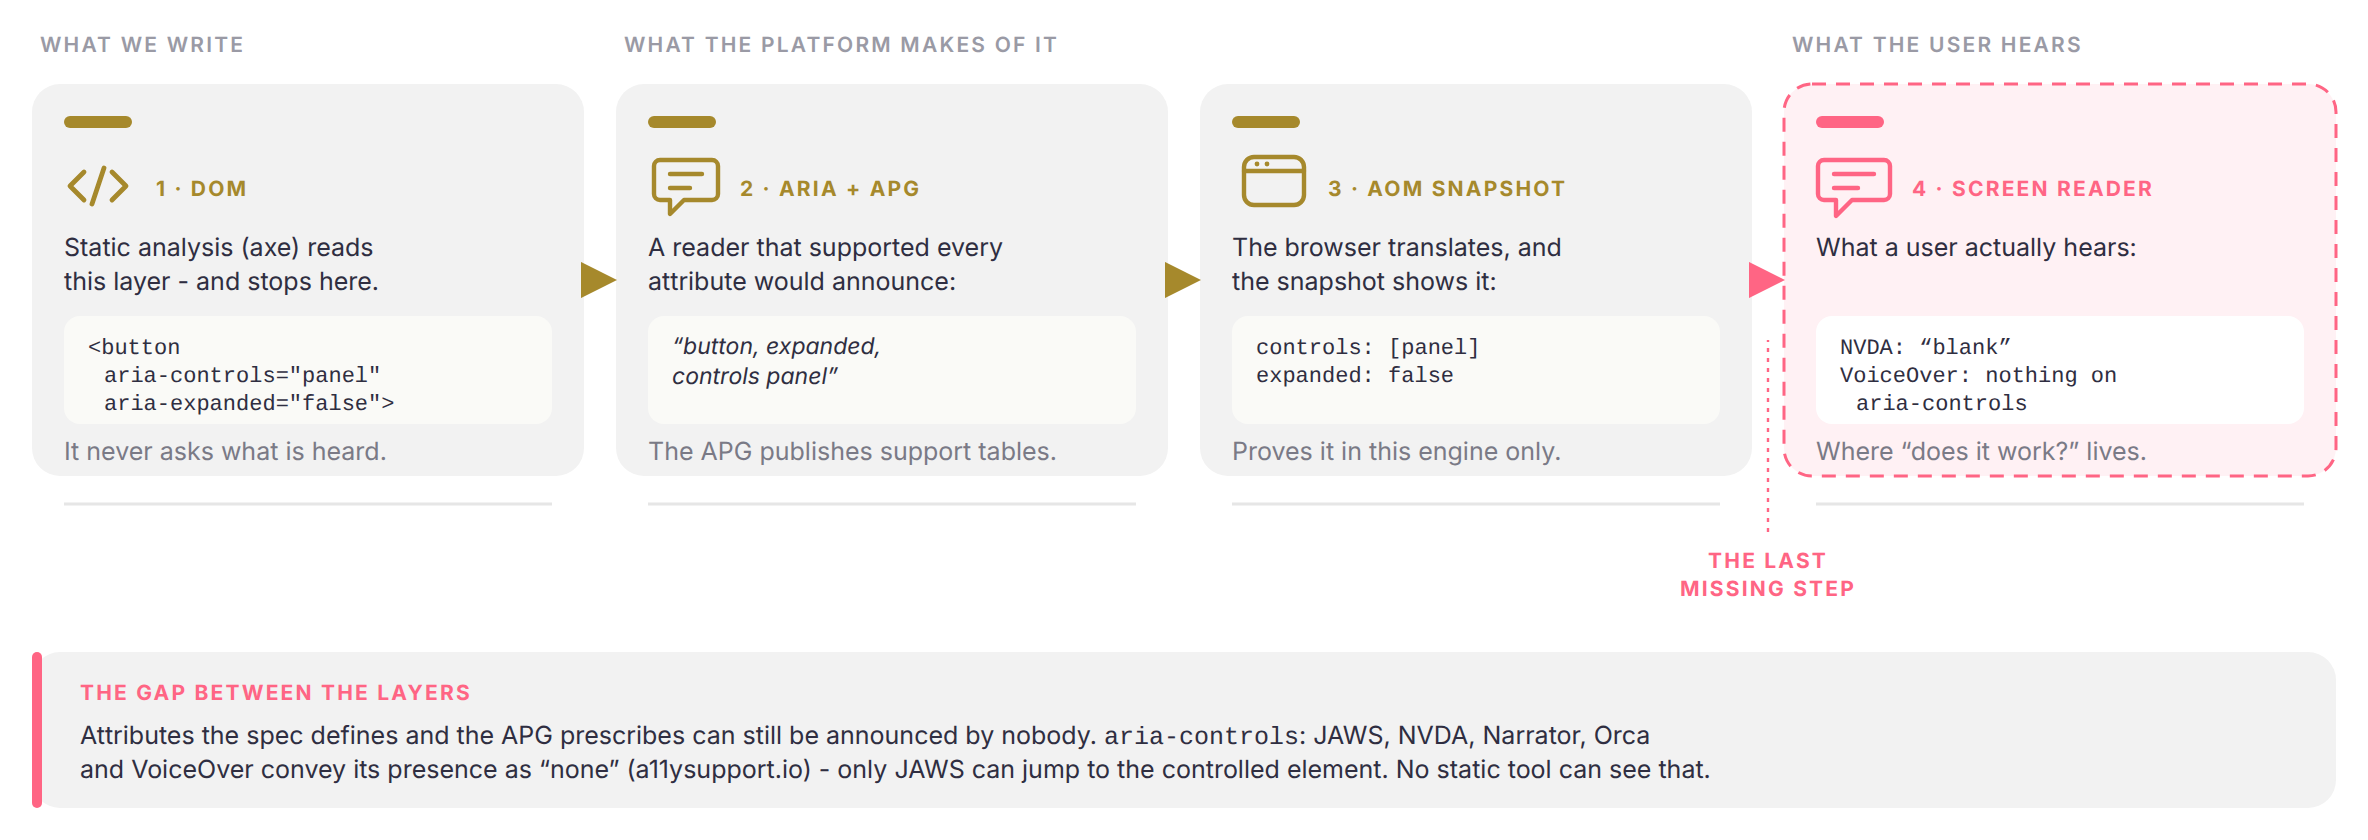
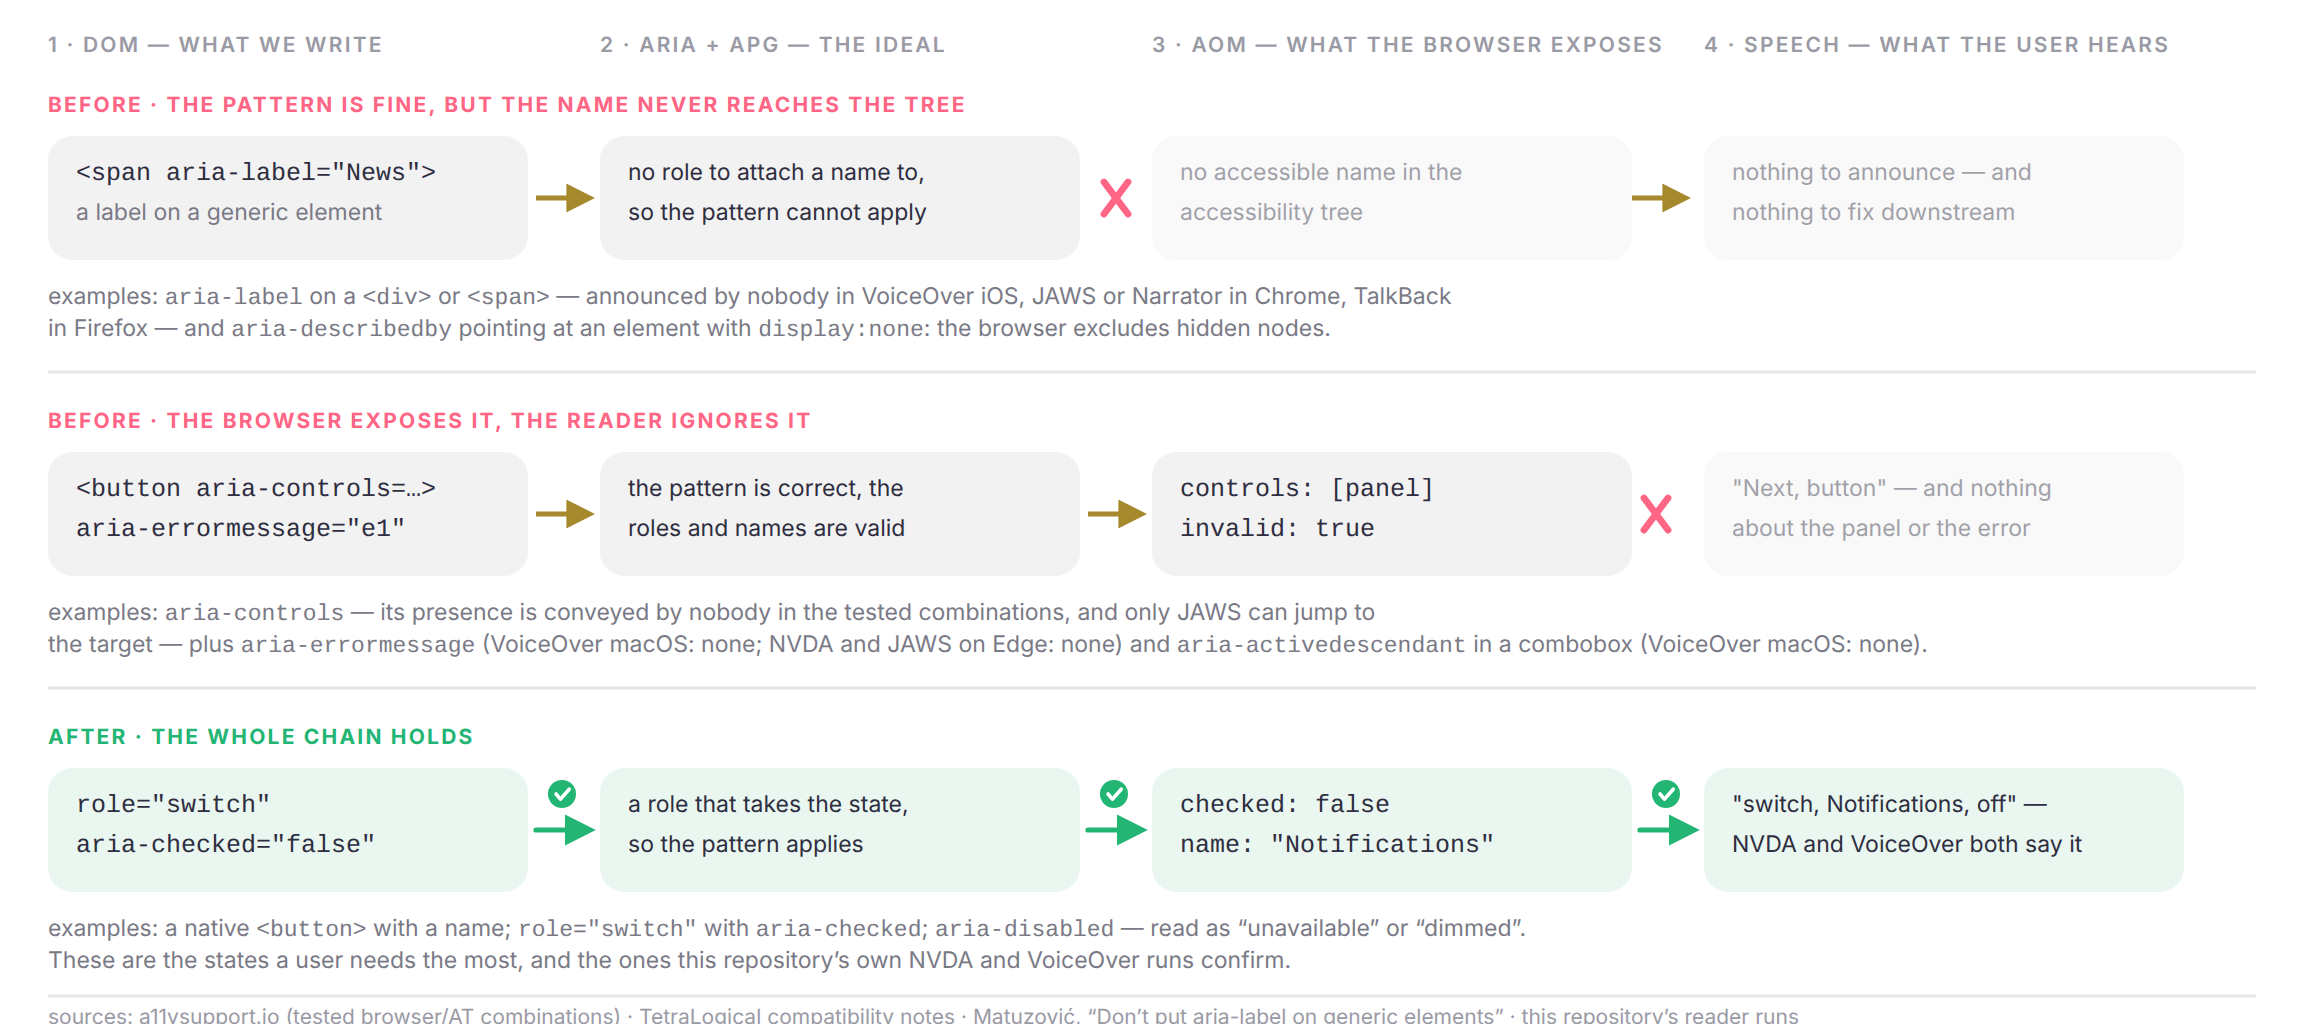
docs(screenreader-test-flow): two before-flows and an after-flow, with real examples and sources
The diagram now shows the same four layers three times: a break between the DOM and the AOM (the browser never
passes it on), a break between the AOM and speech (the browser exposes it, the reader ignores it), and an
after-flow where the whole chain holds. The greyed pills after a break make it visible where the information
dies.

Every break has real cases behind it, kept with their sources rather than repeated from folklore:

- DOM to AOM: a label on a generic element (`aria-label` on a `<div>`/`<span>`); `aria-describedby` pointing
  at a `display:none` element - both invisible to a static check, because the attribute and the id are valid.
- AOM to speech: `aria-controls` (presence conveyed by nobody in the tested combinations); `aria-errormessage`
  (a11ysupport.io: none for JAWS on Firefox, Narrator and NVDA on Edge, VoiceOver on macOS); `aria-activedescendant`
  in the APG's own combobox example (VoiceOver macOS); `aria-sort`; plus the WebKit bug where VoiceOver misses
  an `aria-expanded` *toggle* but not its initial state (TetraLogical).
- And the quirks this suite hit itself: NVDA reading a field's value instead of its label, NVDA not reaching the
  items of a closed menu, VoiceOver's help banner stealing the IBAN error announcement.

The after-flow names what does hold end to end - native button names, `role="switch"` with `aria-checked`,
`aria-disabled` - the states our own NVDA and VoiceOver runs confirm.

diff --git a/packages-node/test-runner-sr/README.md b/packages-node/test-runner-sr/README.md
@@ -220,6 +220,55 @@ when the assertion is about what a user _hears_ and that cannot be derived from 
 - the wording a reader produces, keyed per reader where they differ (NVDA names the value, VoiceOver the
   label), with `containsLike()` for phrases where politeness or a verb is decoration around the point.
 
+### Where the chain breaks - real examples, with sources
+
+The diagram shows three flows through the same four layers. Each break has real cases behind it:
+
+#### Between the DOM and the AOM - the browser never passes it on
+
+- `aria-label` or `aria-labelledby` on a **generic** element (`<div>`, `<span>`): there is no role for the
+  name to attach to, so there is nothing to announce - in VoiceOver on iOS, JAWS and Narrator in Chrome, and
+  TalkBack in Firefox ([Matuzovic, _Don't put aria-label on generic elements like
+  divs_](https://www.matuzo.at/blog/2026/aria-label-generic-elements)).
+- `aria-describedby` (or `aria-labelledby`) pointing at an element with `display: none`: the browser excludes
+  hidden nodes when it computes a name or description, so the description simply does not exist ([Stack
+  Overflow: aria-describedby not working with role=listitem on Safari with
+  VoiceOver](https://stackoverflow.com/questions/78544306/)).
+- Note how both of these are _invisible_ to a static check: valid attribute, valid id, correct pattern.
+
+#### Between the AOM and speech - the browser exposes it, the reader ignores it
+
+- `aria-controls`: in the tested combinations at [a11ysupport.io](https://a11ysupport.io/tech/aria/aria-controls_attribute)
+  JAWS, NVDA, Narrator, Orca and VoiceOver convey its presence as **none**, and only JAWS can jump to the
+  controlled element (the JAWS setting that could speak the attribute went away in JAWS 2020).
+- `aria-errormessage`: the tested combinations are "supported" for JAWS in Chrome/Edge and NVDA in Chrome,
+  and **none** for JAWS in Firefox, Narrator in Edge, NVDA in Edge and VoiceOver on macOS
+  ([a11ysupport.io](https://a11ysupport.io/tech/aria/aria-errormessage_attribute)) - i.e. an error can be
+  announced or silently missed depending on the pair, while the markup is identical.
+- `aria-activedescendant`: in the APG's own editable-combobox example, VoiceOver on macOS fails to convey
+  the referenced element as active ([a11ysupport.io test of that APG
+  example](https://a11ysupport.io/tests/apg__aria-1-2-combobox-with-list-autocomplete-example)).
+- `aria-sort` on a sortable column: partial at best, and no known support in Orca or TalkBack
+  ([a11ysupport.io](https://a11ysupport.io/tech/aria/aria-sort_attribute)).
+- A quirk rather than a gap: WebKit has a bug where VoiceOver does not announce "expanded" or "collapsed"
+  when `aria-expanded` is _toggled_ between true and false - the initial state is fine, the change is not
+  ([TetraLogical, compatibility notes](https://tetralogical.com/resources/accessible-components-library/compatibility/)).
+
+#### Quirks our own runs hit
+
+- NVDA announces the **value** of a text field ("blank") rather than its label, which is why the input and
+  combobox tests are written that way;
+- NVDA does not reach the items of a _closed_ menu, because they are not rendered - our menu test asserts
+  them after opening it;
+- VoiceOver's help banner occasionally steals an announcement: the one flaky step in this suite is the IBAN
+  error message, and that is what the log shows when it fails.
+
+#### Where the whole chain holds
+
+- a native `<button>` with a name; `role="switch"` with `aria-checked`; `aria-disabled`, which readers
+  announce as "unavailable" or "dimmed". These are the states a user needs most, and our own NVDA and
+  VoiceOver runs confirm them.
+
 ### What deliberately does not get one
 
 | category                   | examples                                                                                 | why                                                                                                                                                                                                                                                                                                                                                                          |
